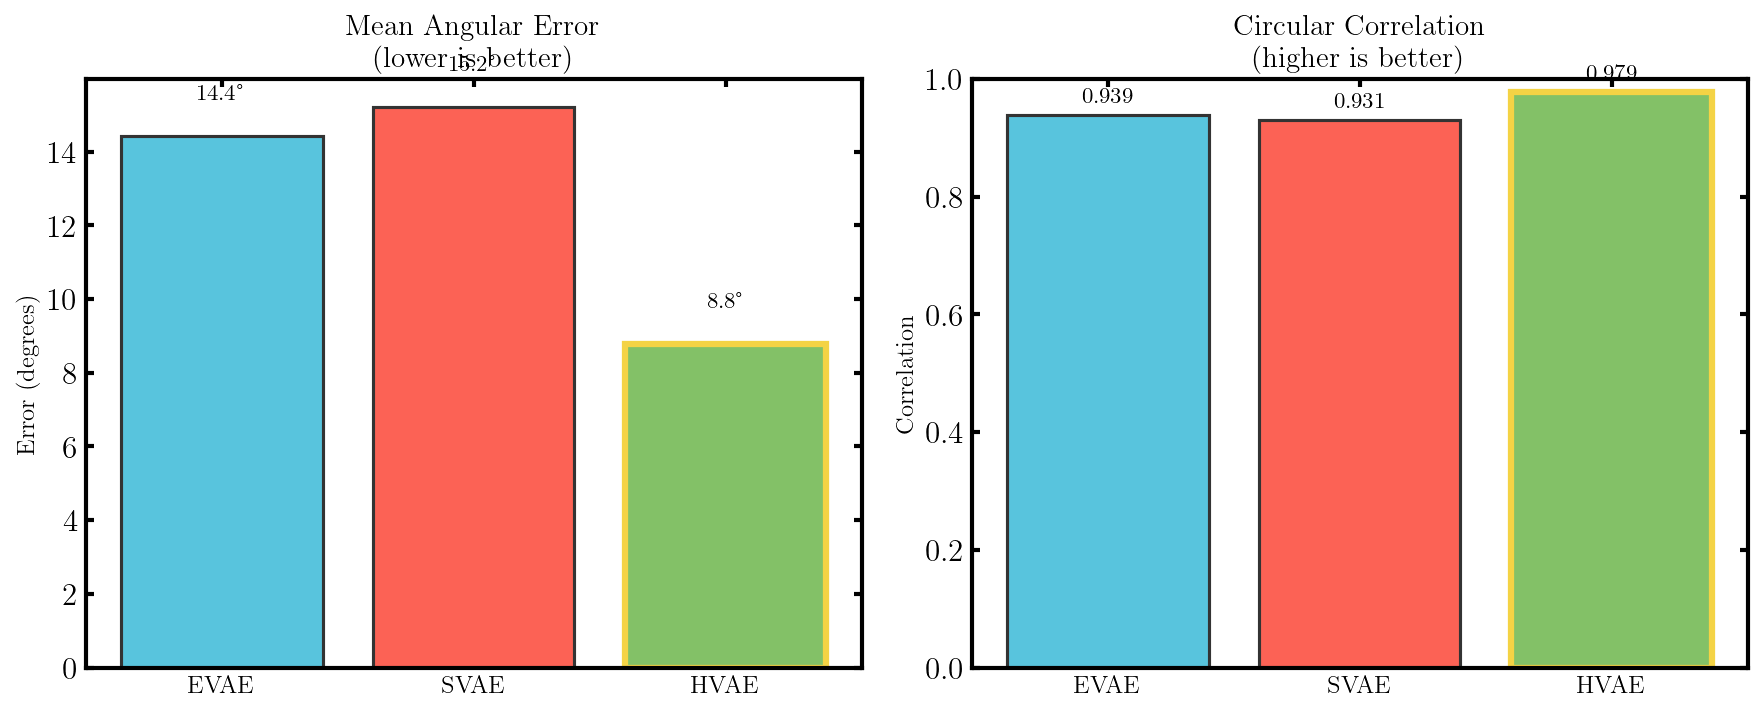
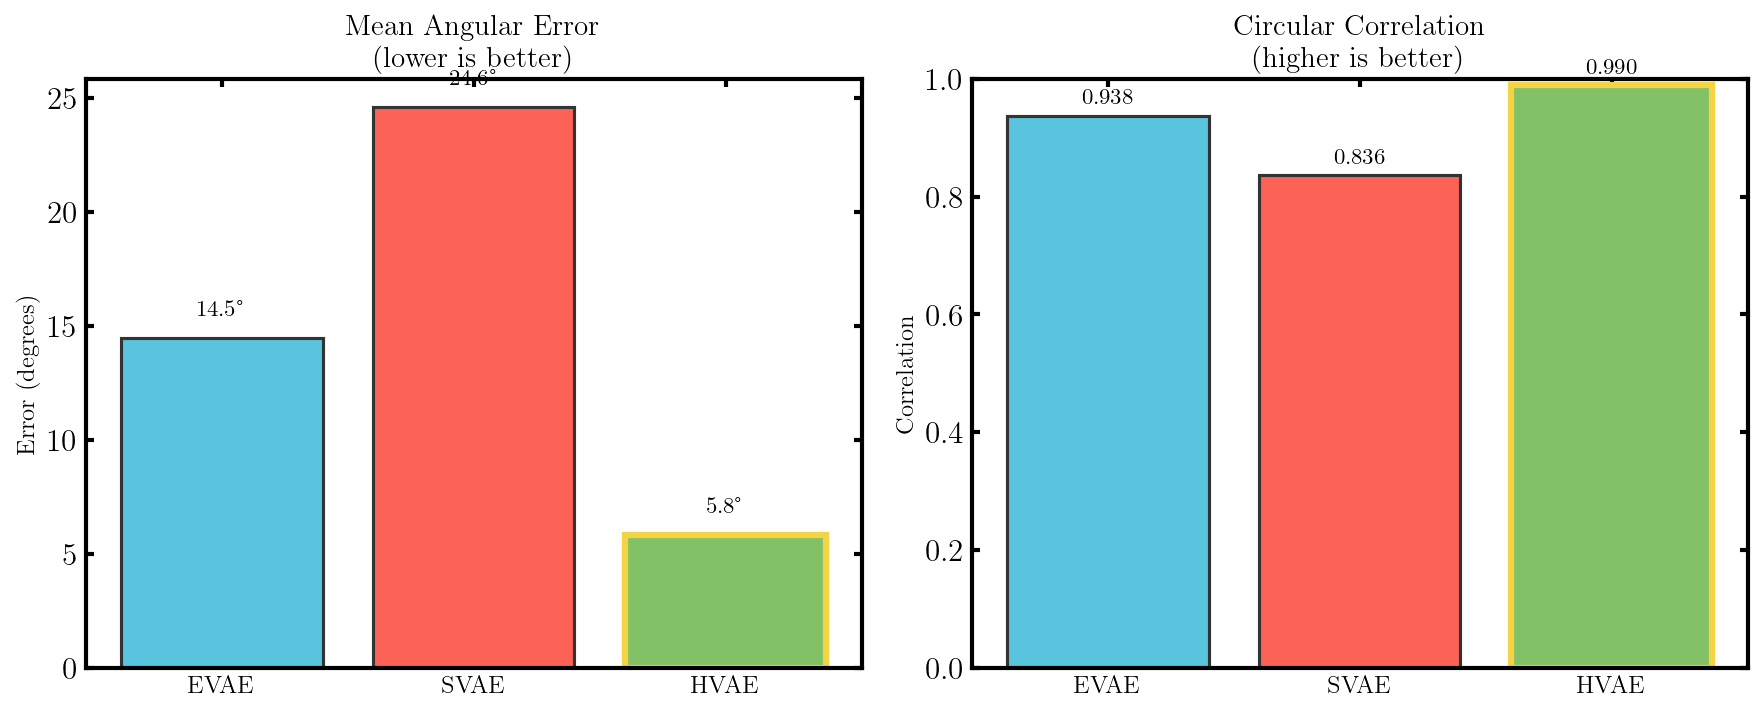
Finished second draft of constant curvature VAE post
Main changes were that I added more diagnostic plots to the VAE results on the QM9 dataset and added a few explainer gifs for what dihedral bonds are

diff --git a/_posts/2025-11-28-constant-curvature-VAEs.md b/_posts/2025-11-28-constant-curvature-VAEs.md
@@ -1,5 +1,5 @@
 ---
-title: 'Image Classification and Molecular Structure Prediction with Constant Curvature VAEs'
+title: 'Image Classification and Molecular Structure Reconstruction with Constant Curvature VAEs'
 date: 2025-11-27
 permalink: /posts/2025/08/2025-11-27-constant-curvature-VAEs/
 tags:
@@ -17,7 +17,7 @@ header-includes:
 ---
 
 
-In this post, I’ll go through Constant Curvature VAEs (traditional, hyperspherical, and hyperbolic) for image data classification and molecular property prediction.
+In this post, I’ll go through Constant Curvature VAEs (traditional, hyperspherical, and hyperbolic) for image data classification and molecular structure reconstruction.
 
 
 ---
@@ -38,7 +38,7 @@ In this post, I’ll go through Constant Curvature VAEs (traditional, hyperspher
 - [Image Classification and Generation with MNIST and LFW](#image-classification-and-generation-for-mnist-and-lfw-with-constant-curvature-vaes)
     - [MNIST](#mnist)
     - [Labelled Faces in the Wild](#labeled-faces-in-the-wild)
-- [Molecular Structure Prediction with QM9](#molecular-structure-prediction-for-qm9-dataset-with-constant-curavture-vaes)
+- [Molecular Structure Reconstruction with QM9](#molecular-structure-reconstruction-for-qm9-dataset-with-constant-curavture-vaes)
 - [Conclusions](#conclusions)
 
 ## Prerequisites 
@@ -1588,22 +1588,19 @@ import torch
 
 
 def lorentz_inner_product(x, y):
-    """ -x0*y0 + x1*y1 + ... + xn*yn """
+    # -x0*y0 + x1*y1 + ... + xn*yn 
     return -x[..., 0] * y[..., 0] + torch.sum(x[..., 1:] * y[..., 1:], dim=-1)
 
 def lorentz_norm_sq(x):
-    """||x||_L^2 = <x, x>_L."""
+    #||x||_L^2 = <x, x>_L
     return lorentz_inner_product(x, x)
 
 def lorentz_norm(x):
-    """||x||_L = sqrt(<x, x>_L)."""
+    #||x||_L = sqrt(<x, x>_L)
     return torch.sqrt(lorentz_norm_sq(x))
 
 def exp_map(mu, u):
-    """ T_\mu(\mathbb{H}^n) -> H^n
-    
-    \vec{v} = \exp_\vec{\mu}(\vec{u}) = \cosh(\lVert \vec{u}\rVert_\mathcal{L}) \vec{\mu} + \sinh(\lVert \vec{u} \rVert_\mathcal{L})\frac{\vec{u}}{\lVert \vec{u} \rVert_\mathcal{L}}
-    """
+    # T_\mu(\mathbb{H}^n) -> H^n
     r = lorentz_norm(u)
     
     # making sure that r isn't too small, making everything explode # not great
@@ -1611,7 +1608,7 @@ def exp_map(mu, u):
     return torch.cosh(r).unsqueeze(-1) * mu + torch.sinh(r).unsqueeze(-1) * (u / r.unsqueeze(-1).clamp(min=epsilon))
 
 def inv_exp_map(mu, z):
-    """exp_mu^{-1}(z) : H^n -> T_mu(H^n)"""
+    # exp_mu^{-1}(z) : H^n -> T_mu(H^n)
     alpha = -lorentz_inner_product(mu, z) # alpha = cosh(d(mu, z))
     
     # Similar thing to r above
@@ -1626,13 +1623,7 @@ def inv_exp_map(mu, z):
     return u
 
 def parallel_transport(nu, mu, v):
-    """PT_{x->y}(v) : T_nu(H^n) -> T_mu(H^n)
-    
-    \vec{u} &= \text{PT}){\vec{\nu}\rightarrow \vec{\mu}}(\vec{v}) \\
-    &= \vec{v} + \frac{\langle \vec{\mu} - \alpha \vec{\nu}, \vec{v}\rangle_\mathcal{L}}{\alpha + 1}(\vec{\nu} + \vec{\mu}) \\
-    
-    """
-
+    # PT_{x->y}(v) : T_nu(H^n) -> T_mu(H^n)
     alpha = -lorentz_inner_product(nu, mu)
     
     # Clampin
@@ -1997,31 +1988,30 @@ I'm not going to bother with showing how the latent space maps to the output as 
 
 In which we can see that there is no rhyme or reason when it comes to who is who (yet).
 
-Let's look at some quantitative estimates for how well the different methods are reconstructing the images
+Let's look at some quantitative estimates for how well the different methods are reconstructing the images (however note the uncertainties...)
 
 | $$D$$ (Latent Dims) | $$L$$ (Hidden Layers) | **Euclidean VAE** | **Spherical VAE** | **Hyperbolic VAE** |
 | :---: | :---: | :---: | :---: | :---: |
-| | | **ELBO (bits/dim)** | **ELBO (bits/dim)** | **ELBO (bits/dim)** |
-| **2** | 1 | -975.2 +/- 66.0 | -1047.0 +/- 40.5 A2 | -1059.3 +/- 44.7 |
-| | 2 | -1065.0 +/- 40.4 | -1048.9 +/- 59.7 | -1041.8 +/- 47.1 |
+| **2** | 1 | **-975.2 +/- 66.0** | -1047.0 +/- 40.5 A2 | -1059.3 +/- 44.7 |
+| | 2 | -1065.0 +/- 40.4 | -1048.9 +/- 59.7 | **-1041.8 +/- 47.1** |
 | | 3 | -1017.5 +/- 62.0 | -1056.2 +/- 76.1 | -1020.2 +/- 42.5 |
-| | 4 | -1009.1 +/- 64.7 | -1064.6+/- 50.5 | -1086.1 +/- 49.7 |
-| **3** | 1 | -966.9 +/- 57.1 | -1077.1 +/- 41.3 | -1004.6 +/- 51.7 |
+| | 4 | **-1009.1 +/- 64.7** | -1064.6+/- 50.5 | -1086.1 +/- 49.7 |
+| **3** | 1 | **-966.9 +/- 57.1** | -1077.1 +/- 41.3 | -1004.6 +/- 51.7 |
 | | 2 | -1000.4 +/- 63.7 | -1067.4 +/- 52.5 | -1001.2 +/- 48.5 |
 | | 3 | -1014.2 +/- 63.2 | -1068.4 +/- 59.6 | -1008.6+/- 51.4 |
-| | 4 | -1020.2 +/- 61.0 | -1105.3 +/- 58.7 | -1006.1 +/- 47.7 |
+| | 4 | **-1020.2 +/- 61.0** | -1105.3 +/- 58.7 | -1006.1 +/- 47.7 |
 | **5** | 1 | -991.1 +/- 59.5 | -1136.4 +/- 35.9 | -987.0 +/- 55.6 |
-| | 2 | -1020.8 +/- 62.8 | -1054.8 +/- 61.4 | -1042.8 +/- 44.0 |
-| | 3 | -1018.2 +/- 64.5 | -1099.9 +/- 40.6 | -991.45 +/- 60.8 |
+| | 2 | **-1020.8 +/- 62.8** | -1054.8 +/- 61.4 | -1042.8 +/- 44.0 |
+| | 3 | -1018.2 +/- 64.5 | -1099.9 +/- 40.6 | **-991.45 +/- 60.8** |
 | | 4 | -1017.7 +/- 68.4 | -1118.8 +/- 40.2 | -1014.7 +/- 44.1 |
-| **10** | 1 | -980.7 +/- 58.4 | -1133.7 +/- 36.6 | -1009.2 +/- 62.5 |
-| | 2 | -1032.6 +/- 62.9 | -1140.7 +/- 39.9 | -1022.7 +/- 66.0 |
-| | 3 | -1025.3 +/- 67.9 | -1110.1 +/- 44.5 | -1008.4 +/- 59.9 |
+| **10** | 1 | **-980.7 +/- 58.4** | -1133.7 +/- 36.6 | -1009.2 +/- 62.5 |
+| | 2 | -1032.6 +/- 62.9 | -1140.7 +/- 39.9 | **-1022.7 +/- 66.0** |
+| | 3 | -1025.3 +/- 67.9 | -1110.1 +/- 44.5 | **-1008.4 +/- 59.9** |
 | | 4 | -1026.8 +/- 70.8 | -1075.4 +/- 47.1 | -1018.3 +/- 54.0 |
-| **20** | 1 | -991.9 +/- 60.5 | -1141.3 +/- 37.5 | -1057.5+/- 61.2 |
-| | 2 | -1028.8 +/- 54.6 | -1137.8 +/- 43.6 | -1048.1 +/- 49.5 |
-| | 3 | -1025.2 +/- 60.5 | -1130.3 +/- 42.3 | -1007.2 +/- 56.6 |
-| | 4 | -1028.0 +/- 70.6 | -1136.8 +/- 41.9 | -1047.8 +/- 54.5 |
+| **20** | 1 | **-991.9 +/- 60.5** | -1141.3 +/- 37.5 | -1057.5+/- 61.2 |
+| | 2 | **-1028.8 +/- 54.6** | -1137.8 +/- 43.6 | -1048.1 +/- 49.5 |
+| | 3 | -1025.2 +/- 60.5 | -1130.3 +/- 42.3 | **-1007.2 +/- 56.6** |
+| | 4 | **-1028.0 +/- 70.6** | -1136.8 +/- 41.9 | -1047.8 +/- 54.5 |
 
 <figcaption> Table Expressing the very rough performance of the different VAEs on the LFW dataset for varying hyperparameters via their final ELBO values. "Best" values are emboldened but for low dimensions most of the values are within uncertainties anyways. "Acc" stands for "Accuracy", would have just make the table look uglier.</figcaption>
 
@@ -2029,7 +2019,7 @@ And I can confirm that the values for higher layers and latent dimensions are in
 
 <br>
 
-# Molecular Structure Prediction for [QM9 dataset](https://www.kaggle.com/datasets/zaharch/quantum-machine-9-aka-qm9) with constant curavture VAEs
+# Molecular Structure Reconstruction for [QM9 dataset](https://www.kaggle.com/datasets/zaharch/quantum-machine-9-aka-qm9) with constant curavture VAEs
 
 The [QM9 dataset](https://springernature.figshare.com/collections/Quantum_chemistry_structures_and_properties_of_134_kilo_molecules/978904/5) is a dataset containing the structural information for ~130,000 molecules that is a pretty common benchmark for machine learning approaches to molecular property prediction. 
 
@@ -2043,7 +2033,32 @@ However, we believe the below results to be true (and in hindsight it should hav
 
 ## Method
 
-What we do is throw away the relatively simple overall quantum property data and focus in on the structure of the molecules. We looks at the positions of different combinations of the molecules, groups of three defining a plane, and extract the angular positions between these planes. We encode these into x, y pairs of $$(cos(\theta), \sin(\theta))$$.
+What we do is throw away the relatively simple overall quantum property data and focus in on the structure of the molecules. We looks at the positions of different combinations of the molecules, groups of three defining a plane, and extract the angular positions between these planes. These are called _dihedral-angles_ and they can be used instead of bond angles, as far as I know. The gifs below are my attempt at showing how this works in the case of a cis- and trans- molecular configuration.
+
+<div style="text-align: center;">
+  <img 
+      src="/files/BlogPostData/2025-constant-curvature-vaes/Dihedral_Angle_Explainers/cis_molecule.gif" 
+      style="width: 49%; height: auto; border-radius: 1px;">
+  <img 
+      src="/files/BlogPostData/2025-constant-curvature-vaes/Dihedral_Angle_Explainers/trans_molecule.gif" 
+      style="width: 49%; height: auto; border-radius: 1px;">
+</div>
+<br>
+
+The below two gifs then show how the dihedral angle, the angle between planes, changes based on the position of the node/atom 'D' from two different perspectives (for same angle, I show the same structure) (this is for definitional purposes, many of the angles are not physical).
+
+<div style="text-align: center;">
+  <img 
+      src="/files/BlogPostData/2025-constant-curvature-vaes/Dihedral_Angle_Explainers/dihedral_180_fixed_azim_n50.gif" 
+      style="width: 49%; height: auto; border-radius: 1px;">
+  <img 
+      src="/files/BlogPostData/2025-constant-curvature-vaes/Dihedral_Angle_Explainers/dihedral_180_fixed_azim_n00.gif" 
+      style="width: 49%; height: auto; border-radius: 1px;">
+</div>
+<br>
+
+
+For our experiment on the QM9 dataset we encode the angles into x, y pairs of $$(cos(\theta), \sin(\theta))$$.
 
 We feed these positions in, which we say fall inbetween $$-180^\circ$$, and $$+180^\circ$$ for a consistent convention. Theoretically, the discontinuity that occurs because of the cutoffs at the bounds _should_ have been hard to learn...
 
@@ -2051,7 +2066,12 @@ We feed the list of pairs of $$(cos(\theta), \sin(\theta))$$ into the VAEs (i.e.
 
 The reconstruction loss (irrespective of the KL divergence/regularisation loss) is a simple [cosine similarity](https://en.wikipedia.org/wiki/Cosine_similarity) value of the angular output.
 
+### Quick Disclaimer
+
+For the below results I utilised Claude (the LLM) quite a bit to handle plotting, primarily so I didn't have to: pick out the right angles and put them in the right axis, make sure the colours were consistent, figure out how to make a polar projection with matplotlib (although after I did this, turns out it was actually pretty simple), automating the process so I could re-run it all efficiently, etc.
+
 ## Results
+
 
 Below are some of the results of the training using [mpl-drip](https://pypi.org/project/mpl-drip/) for the colour scheme. First let's look at the loss curves of the different methods to see whether we trained them enough.
 
@@ -2082,16 +2102,45 @@ And while they do not do terrifically ... the HVAE is still a clear winner. Look
 </div>
 <br>
 
-In which we can clearly see that the HVAE is picking up something that the EVAE and SVAE are not. Presumably this is because, as stated previously, the structure secretly has a lot of hierarchical structure because the molecule structures can be interpreted as very tree-like where the position of one angle depends on the previous and so on.
-
-And in one run that I wasn't able to reproduce after some bug fixes relating to the stability of the VAE training I was able to see,
+Looking a bit more at the distribution of errors, below I've made a plot that shows the angles on the unit circle for comparison (with some example connections to show true vs prediction) and the distribution of angular errors.
 
 <div style="text-align: center;">
   <img 
-      src="/files/BlogPostData/2025-constant-curvature-vaes/qm9/dihedral_angle_results.png" 
+      src="/files/BlogPostData/2025-constant-curvature-vaes/qm9/dihedral_circular.png" 
+      style="width: 99%; height: auto; border-radius: 1px;">
+  <img 
+      src="/files/BlogPostData/2025-constant-curvature-vaes/qm9/dihedral_errors.png" 
       style="width: 99%; height: auto; border-radius: 1px;">
 </div>
 <br>
+
+In which we can clearly see that the HVAE is picking up something that the EVAE and SVAE are not. Presumably this is because, as stated previously, the structure secretly has a lot of hierarchical structure because the molecule structures can be interpreted as very tree-like where the position of one angle depends on the previous and so on.
+
+One extra thing that I thought might be happening is some imbalance in the set of target angles, so I used the best performing versions of the SVAE, EVAE and HVAE above and looked at there performances for specific ranges of angles. A particularly interesting region is ~-180 and ~+180, because theoretically the only network that can encode that these two values are exactly the same, would be the SVAE. However, in the above we can see a hint above that this behaviour isn't captured by the SVAE any better than the other two methods. 
+
+Below we have some plots trying to show just that.
+
+
+<div style="text-align: center;">
+  <img 
+      src="/files/BlogPostData/2025-constant-curvature-vaes/qm9/dihedral_by_region.png" 
+      style="width: 99%; height: auto; border-radius: 1px;">
+  <img 
+      src="/files/BlogPostData/2025-constant-curvature-vaes/qm9/dihedral_errors_by_range_evae.png" 
+      style="width: 99%; height: auto; border-radius: 1px;">
+  <img 
+      src="/files/BlogPostData/2025-constant-curvature-vaes/qm9/dihedral_errors_by_range_svae.png" 
+      style="width: 99%; height: auto; border-radius: 1px;">
+  <img 
+      src="/files/BlogPostData/2025-constant-curvature-vaes/qm9/dihedral_errors_by_range_hvae.png" 
+      style="width: 99%; height: auto; border-radius: 1px;">
+</div>
+<br>
+
+Basically it seems to come down to: less samples --> less accuracy.
+
+
+
 
 
 <br>
